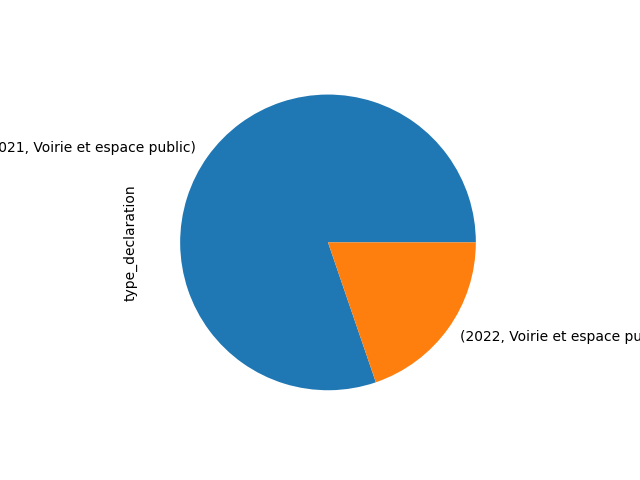
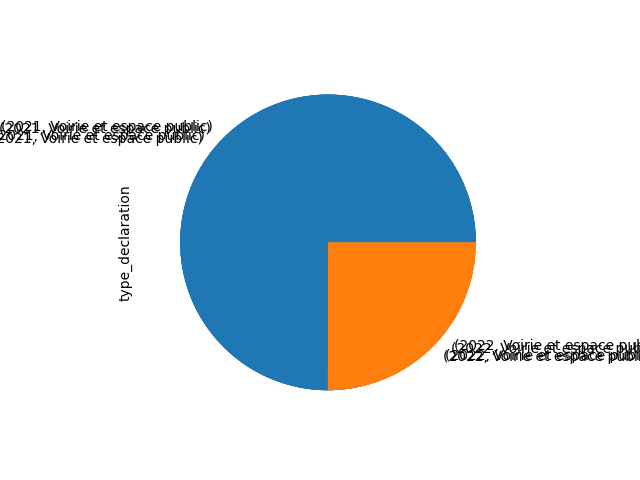
q1.2 graphs

diff --git a/AnomaliesParis/anomaPro/templates/oneParis.html b/AnomaliesParis/anomaPro/templates/oneParis.html
@@ -1,151 +1,1 @@
-{% extends 'base.html' %}
- 
-{% block pageTitle%} Paris Anomalies {%endblock%}
-
-{%block headerContent%}
-<div class="container bg-light my-4 p-2 bounce-in-top bg-opacity-75">
-  <div class="navbar navbar-expand-lg rounded">
-    <div class="container-fluid">
-      <button class="navbar-toggler" type="button" data-bs-toggle="collapse" data-bs-target="#navbarNavDropdown" aria-controls="navbarNavDropdown" aria-expanded="false" aria-label="Toggle navigation">
-        <span class="navbar-toggler-icon"></span>
-      </button>
-      <div class="collapse navbar-collapse" id="navbarNavDropdown">
-        <!-- drop down one -->
-        <ul class="navbar-nav my-2 navbar-nav-scroll mx-auto">
-          <li class="nav-item dropdown">
-            <a class="nav-link dropdown-toggle" href="#" id="navbarScrollingDropdown" role="button" data-bs-toggle="dropdown" aria-expanded="false">
-              Anomalie
-            </a>
-            <ul class="dropdown-menu" aria-labelledby="navbarScrollingDropdown">
-              <li><a class="dropdown-item" href="/anomalie">Objets abondonnes</a></li>
-              <li><a class="dropdown-item" href="#">Graffitis</a></li>
-              <li><a class="dropdown-item" href="#">Affiches et Autocollants</a></li>
-              <li><a class="dropdown-item" href="#">Autos</a></li>
-              <li><a class="dropdown-item" href="#">Mots</a></li>
-              <li><a class="dropdown-item" href="#">Velos</a></li>
-              <li><a class="dropdown-item" href="#">Mobiliers urbains</a></li>
-              <li><a class="dropdown-item" href="#">Proprete</a></li>
-              <li><a class="dropdown-item" href="#">Eclairage/Electricite</a></li>
-              <li><a class="dropdown-item" href="#">Voirie et espace public</a></li>
-              <li><a class="dropdown-item" href="#">Activities commerciales et Professionnelles</a></li>
-              <li><a class="dropdown-item" href="#">Eau</a></li>
-              <li><a class="dropdown-item" href="#">Arbres</a></li>
-              <li><a class="dropdown-item" href="#">Vegetaux et animaux</a></li>
-            </ul>
-          </li>
-          <!-- dropdown two -->
-          <li class="nav-item dropdown mx-5">
-            <a class="nav-link dropdown-toggle" href="#" id="navbarScrollingDropdown" role="button" data-bs-toggle="dropdown" aria-expanded="false">
-              Arrondissement
-            </a>
-            <ul class="dropdown-menu" aria-labelledby="navbarScrollingDropdown">
-              <li><a class="dropdown-item active" href="/oneParis">1 Arrondissement</a></li>
-              <li><a class="dropdown-item" href="#">2 Arrondissement</a></li>
-              <li><a class="dropdown-item" href="#">3 Arrondissement</a></li>
-              <li><a class="dropdown-item" href="#">4 Arrondissement</a></li>
-              <li><a class="dropdown-item" href="#">5 Arrondissement</a></li>
-              <li><a class="dropdown-item" href="#">6 Arrondissement</a></li>
-              <li><a class="dropdown-item" href="#">7 Arrondissement</a></li>
-              <li><a class="dropdown-item" href="#">8 Arrondissement</a></li>
-              <li><a class="dropdown-item" href="#">9 Arrondissement</a></li>
-              <li><a class="dropdown-item" href="#">10 Arrondissement</a></li>
-              <li><a class="dropdown-item" href="#">11 Arrondissement</a></li>
-              <li><a class="dropdown-item" href="#">12 Arrondissement</a></li>
-              <li><a class="dropdown-item" href="#">13 Arrondissement</a></li>
-              <li><a class="dropdown-item" href="#">14 Arrondissement</a></li>
-              <li><a class="dropdown-item" href="#">15 Arrondissement</a></li>
-              <li><a class="dropdown-item" href="#">16 Arrondissement</a></li>
-              <li><a class="dropdown-item" href="#">17 Arrondissement</a></li>
-              <li><a class="dropdown-item" href="#">18 Arrondissement</a></li>
-              <li><a class="dropdown-item" href="#">19 Arrondissement</a></li>
-              <li><a class="dropdown-item" href="#">20 Arrondissement</a></li>
-            </ul>
-          </li>
-          <!-- drop down three -->
-          <li class="nav-item dropdown">
-            <a class="nav-link dropdown-toggle" href="#" id="navbarScrollingDropdown" role="button" data-bs-toggle="dropdown" aria-expanded="false">
-              Years
-            </a>
-            <ul class="dropdown-menu" aria-labelledby="navbarScrollingDropdown">
-              <li><a class="dropdown-item" href="#">2021</a></li>
-              <li><a class="dropdown-item" href="#">2022</a></li>
-            </ul>
-          </li>
-        </ul>
-      </div>
-    </div>
-  </div>
-</div>
-
-{%endblock%}
-
-{% block Content %}
-<div class="container">
-  <div class="containerHead">
-    <h4>DATA</h4>
-    <p>Lorem ipsum dolor sit amet consectetur adipisicing elit. Commodi eius beatae, nisi culpa hic deserunt fugit? Sint, eaque. Labore id a, corporis alias architecto soluta aliquam praesentium quisquam facere ipsa.</p>
-  </div>
-  <div class="contentOne">
-    <div class="row">
-      <div class="col mx-2 rounded">
-        <table class="table my-2 p-2 text-white">
-          <thead>
-            <th>Annee_decleration</th>
-            <th>Type_anomalies</th>
-          </thead>
-          <tbody>
-            <tr>
-              <td>2021</td>
-              <td>12344</td>
-            </tr>
-            <tr>
-              <td>2022</td>
-              <td>12344</td>
-            </tr>
-          </tbody>
-  
-        </table>
-      </div>
-      <div class="col2 col-md-5 my-2 py-3 text-center">
-        <h4 class="mb-4">Graph(pie) </h4>
-            <div class="imageContent">
-              <img src = '{{ img.0 }}' alt=raté>
-            </div>
-      </div>
-      <div class="col2 col-md-5 my-2 py-3 text-center">
-        <h4 class="mb-4">Graph(hist)</h4>
-          <div class="imageContent">
-            <img src="{{ img.1 }}" alt="rate">
-          </div>
-      </div>
-  </div>
-
-  <div class="clickBtn">
-    <a href="/home" class="btn btn-secondary my-3 btn-lg" role="button">Go Back</a>
-  </div>
-  
-  <h2 class="text-center"><u>20 - Startups Table</u></h2><br>            
-  <table class="table table-dark table-striped">
-    <thead>
-      <tr>
-        <th>arrondissement</th>
-        <th>annee_declaration</th>
-        <th>nombre d'anomalies</th>
-      </tr>
-    </thead>
-    <tbody>
-    
-    {% if data %}  
-    {% for i in data %}
-      <tr>
-        <td>{{i.arrondissement}}</td>
-        <td>{{i.annee_declaration}}</td>
-        <td>{{i.type_declaration}}</td>
-      </tr>
-    {% endfor %}
-    {% endif %}
-    </tbody>
-  </table>
-</div>
-  
-{%endblock%}
+<img src = '{{ img.0 }}' alt=raté>

diff --git a/AnomaliesParis/anomaPro/templates/Q1_ParArrondissement.html b/AnomaliesParis/anomaPro/templates/Q1_ParArrondissement.html
@@ -1,39 +1,10 @@
-{% extends 'base.html' %}
-<!-- page title -->
-{%block pageTitle%} Information {%endblock%}
+{% if data %}
+{% for i in data %}
+{{ i.annee_declaration }}
+ {{ i.count }}
 
-<!-- page header title -->
-{%block headerTitle%} {%endblock%}
+{% endfor %}           
+{% endif %}           
 
-<!-- page header content -->
-{%block headerContent%}
 
-{% endblock %}
-  
-{%block Content%}
-<div class="container">
-  <h2 class="text-center"><u>Anomalies par arrondissement</u></h2><br>            
-  <table class="table table-dark table-striped">
-    <thead>
-      <tr>
-        <th>arrondissement</th>
-        <th>annee_declaration</th>
-        <th>nombre d'anomalies</th>
-      </tr>
-    </thead>
-    <tbody>
-    
-    {% if Q1_ParArrondissement %}  
-    {% for i in Q1_ParArrondissement %}
-      <tr>
-        <td>{{i.arrondissement}}</td>
-        <td>{{i.annee_declaration}}</td>
-        <td>{{i.type_declaration}}</td>
-      </tr>
-    {% endfor %}
-    {% endif %}
-    </tbody>
-  </table>
-</div>
-  
-{% endblock %}
+  <img src = '{{ img.0 | safe }}' alt=raté>

diff --git a/AnomaliesParis/anomaPro/anomaPro/views.py b/AnomaliesParis/anomaPro/anomaPro/views.py
@@ -94,10 +94,10 @@ def question1(request):
 
   df3 = df2.groupby(['arrondissement','annee_declaration'])['type_declaration'].count()
   json_records = df3.reset_index().to_json(orient ='records')
-
+  print("df3", df3)
   data = []
   data = json.loads(json_records)
-  
+  print("js", json_records)
   context = {'img': [path_bar2, path_circ2], 'data': data} 
 
   return render(request, 'question1.html', context)
@@ -115,26 +115,26 @@ def question3(request):
 
 def Q1_ParArrondissement(request, pk):
 
-  """
-  df2.loc[df2['arrondissement']==1,:].loc[df2['type_declaration']=='Voirie et espace public',:].groupby(['annee_declaration'])['type_declaration'].value_counts().plot.pie()    
-  path_Q1_ParArrondissement = './static/img/Q1_ParArrondissement.png'
-  path_Q1_ParArrondissement2 ='/static/img/Q1_ParArrondissement.png'
+  
+  df2.loc[df2['arrondissement']==pk,:].loc[df2['type_declaration']=='Voirie et espace public',:].groupby(['annee_declaration'])['type_declaration'].value_counts().plot.pie()    
+  path_Q1_ParArrondissement = './static/img/Q1_Arrondissement{}.png'.format(pk)
+  path_Q1_ParArrondissement2 ='/static/img/Q1_Arrondissement{}.png'.format(pk)
   plt.savefig(str(path_Q1_ParArrondissement))
-  """
+  
 
   #commande pour générer le camembert de données / arr 
   #df2.loc[df2['arrondissement']==1,:].groupby(['annee_declaration'])['annee_declaration'].value_counts().plot.pie()
    
 
   #commande pour générer la tableau de données (global par arrondissement)  
-  df3 = df2.loc[df2['arrondissement']==1,:].groupby(['annee_declaration'])['annee_declaration'].value_counts()
+  df3 = df2.loc[df2['arrondissement']==pk,:].groupby(['annee_declaration'], as_index=False)['annee_declaration'].value_counts()
   print("df3:", df3)
   json_records = df3.reset_index().to_json(orient ='records')
   print("js", json_records)
   data = []
   data = json.loads(json_records)
 
-  context = {'Q1_ParArrondissement': [data]} 
+  context = {'img' : [path_Q1_ParArrondissement2], 'data': data} 
   return render(request, 'Q1_ParArrondissement.html', context)
 
 

diff --git a/AnomaliesParis/anomaPro/anomaPro/urls.py b/AnomaliesParis/anomaPro/anomaPro/urls.py
@@ -25,7 +25,7 @@ urlpatterns = [
     path("question2/", views.question2, name="question2"),
     path("question3/", views.question3, name="question3"),
     path("question1/<int:pk>/", views.Q1_ParArrondissement, name="Q1_ParArrondissement"),
-    #path("home/", views.home, name="home"),
+    #path("question1/<int:pk>/Q1_ParType", views.Q1_ParType, name="Q1_ParType"),
     path("oneParis/", views.oneParis, name="oneParis"),
     #path("question/int:pk/", views.anomalie, name="anomalie"),
     path('admin/', admin.site.urls),
